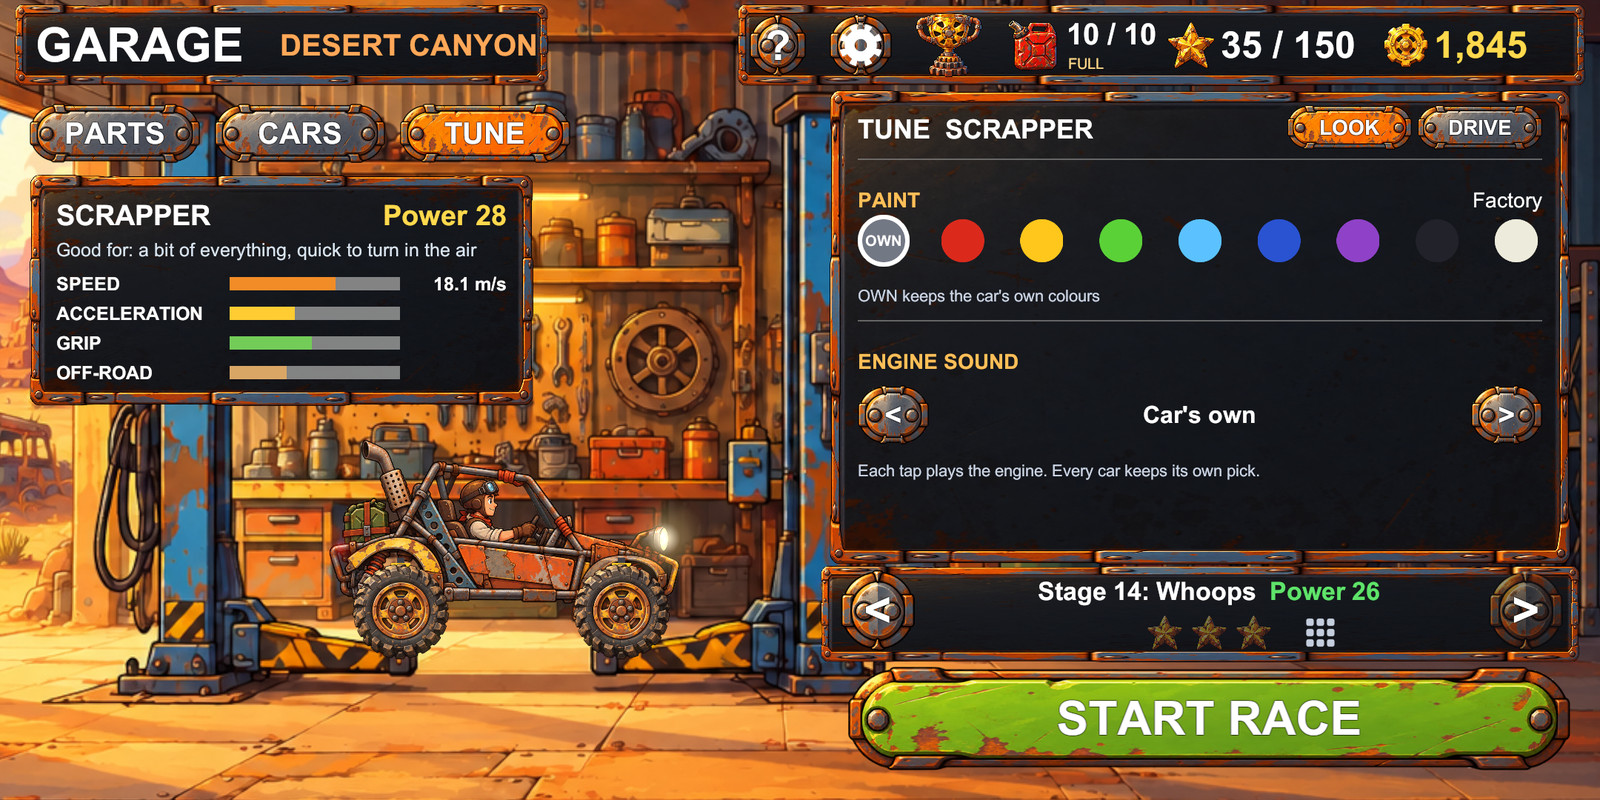
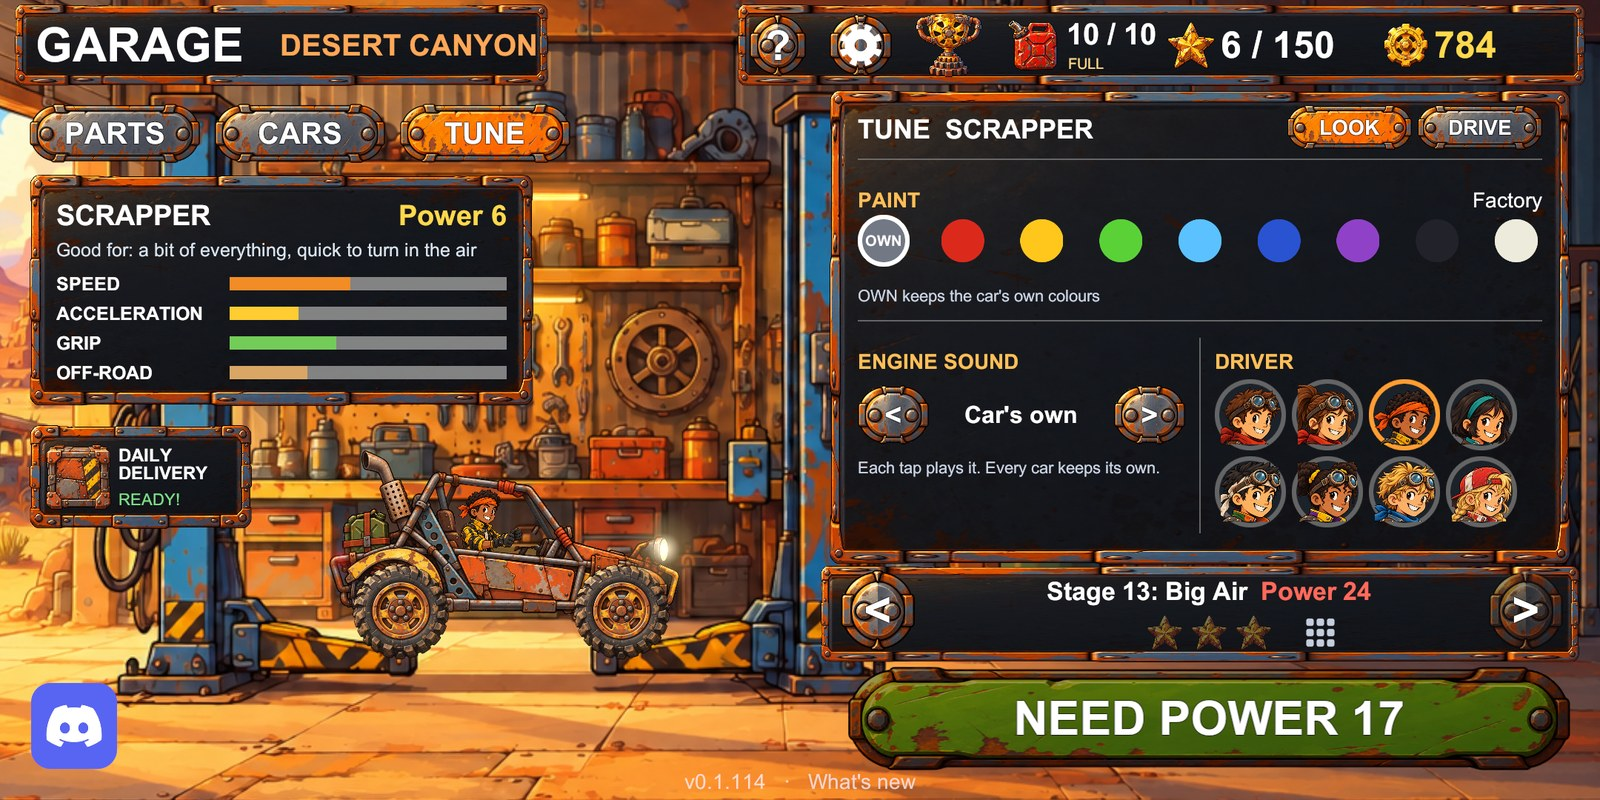
How to play: damage, Power to start, Daily Delivery, Discord, drivers, names
New Damage section (health bar, crashes, WRECKED and REPAIR 75%) and Power to start (World 2 70%, World 3 80%, Worlds 4-5 85%, at most +2 a stage). Daily Delivery and the Discord button in the garage, drivers in TUNE LOOK, unique racer names, World Cleared bonus, free RETRY after a near miss, stunt time from World 3, squash and ball time, part texts (Gearbox front drive, Suspension landings, Frame toughness). New garage and TUNE LOOK pictures (v0.1.114).

diff --git a/guide.html b/guide.html
@@ -4,7 +4,7 @@
 <meta charset="utf-8">
 <meta name="viewport" content="width=device-width, initial-scale=1">
 <title>How to play Garage Rush · Tipps Studios</title>
-<meta name="description" content="How to play Garage Rush: the pedals, time and checkpoints, flips and wheelies, coins and stars, upgrades, cars, tuning, stages, leaderboards, fuel and settings.">
+<meta name="description" content="How to play Garage Rush: the pedals, time and checkpoints, flips and wheelies, crash damage, coins and stars, upgrades, cars, drivers, tuning, stages and the Power they need, leaderboards, fuel, the Daily Delivery and settings.">
 <link rel="icon" href="img/icon_192.png">
 <link rel="stylesheet" href="style.css">
 </head>
@@ -23,6 +23,7 @@
   <p class="lede" style="margin-top: 8px;">Everything in Garage Rush, from your first race to a fully tuned car.</p>
   <ul class="toc">
     <li><a href="#racing">Racing</a></li>
+    <li><a href="#damage">Damage</a></li>
     <li><a href="#hazards">Hazards</a></li>
     <li><a href="#garage">The garage</a></li>
     <li><a href="#upgrades">Upgrades</a></li>
@@ -43,12 +44,15 @@
     <ul>
       <li><span class="key">RIGHT</span> pedal: gas. In the air it tips the nose down.</li>
       <li><span class="key">LEFT</span> pedal: brake, then drive backwards. In the air it tips the nose up.</li>
-      <li>Use them in the air to land on your wheels. Landing on the roof is safe: the car is put back on its wheels after 1.5 seconds.</li>
+      <li>Use them in the air to land on your wheels. Keep the gas held over a ramp and the nose only tips gently for a moment; let go and press again to flip.</li>
+      <li>Landing on the nose or the roof is a crash and dents the car (see <a href="#damage">Damage</a>). On its roof, the car is put back on its wheels after 1.5 seconds.</li>
     </ul>
     <h3>The clock, checkpoints and bonus time</h3>
     <ul>
       <li>The big number at the top is your time left. Each checkpoint you reach adds more.</li>
-      <li>Stunts add time too: a landed <b>flip</b> gives +2 s, a <b>backflip</b> +3 s, and a <b>wheelie</b> held for 1.5 s (on the rear or the front wheels) +2 s.</li>
+      <li>Stunts add time too. In Worlds 1 and 2 a <b>flip</b> gives +2 s, a <b>backflip</b> +3 s, and a <b>wheelie</b> held for 1.5 s (on the rear or the front wheels) +2 s. From World 3 each one gives +1 s, so a better car matters more there.</li>
+      <li>A flip counts only when you land it on your wheels.</li>
+      <li>Some hazards take time away: a crusher's squash costs 4 s and a wrecking ball's hit 3 s (2 s each in Worlds 1 and 2).</li>
       <li>The bar under the clock shows how far you've come: a tick for each checkpoint (green once you pass it) and the finish on the right.</li>
     </ul>
     <h3>The buttons at the top</h3>
@@ -61,17 +65,33 @@
     <p>If the clock reaches zero you can watch an ad to <b>CONTINUE +15 s</b>, once per race. A finish after a Continue still counts for your stars and the leaderboard.</p>
     <h3>After the race</h3>
     <p>The results show your stars and what the race paid, line by line. Watch an ad for <b>×2 COINS</b>, then race again with <b>RETRY</b>, go on with <b>NEXT</b>, or head back to the <b>GARAGE</b>.</p>
+    <p>Ran out of time just short of a checkpoint or the finish, or got further than ever on that stage? Then <b>RETRY</b> is free: it uses no fuel.</p>
+  </section>
+
+  <section id="damage">
+    <h2>Damage <span class="num">2</span></h2>
+    <p>Look after your car: crashes dent it, and a dented car is slower. The <b>health bar</b> at the top left shows how much is left, with the speed it costs underneath.</p>
+    <ul>
+      <li>A <b>crash</b> is the body hitting the ground when the car isn't on its wheels: a nose or roof landing, a tumble, or the far edge of a gap. It costs 6 to 12% health, more for a harder hit. A light tap of the nose or the back doesn't count.</li>
+      <li>Landing on your wheels never damages the car, however hard.</li>
+      <li>Smaller knocks cost a little too: the belly slamming onto a bump, rock or ledge, driving head-on into something that stops you, a wrecking ball's hit, or a fall into a pit.</li>
+      <li>In Worlds 1 and 2 all damage counts half. A tougher <b>Frame</b> takes less (Level 10 halves it).</li>
+      <li>You can see it: the car looks battered under 70% health and wrecked under 35%, with smoke, then sparks.</li>
+      <li>Nothing repairs the car during a race, but every race starts with it as good as new.</li>
+    </ul>
+    <h3>Wrecked</h3>
+    <p>When the health runs out, the race stops. Watch an ad to <b>REPAIR 75%</b> and drive on (once per race), or say No thanks and go to the results.</p>
   </section>
 
   <section id="hazards">
-    <h2>Hazards <span class="num">2</span></h2>
+    <h2>Hazards <span class="num">3</span></h2>
     <p>New hazards come one at a time, each with a tip on the stage's opening card. The main ones:</p>
     <table class="table">
       <thead><tr><th>Hazard</th><th>How to beat it</th></tr></thead>
       <tbody>
-        <tr><td>Crushers</td><td>Go while it's up. The sign's lamp turns green when you'll make it.</td></tr>
-        <tr><td>Wrecking balls</td><td>Pass while the ball is high. Green lamp: go.</td></tr>
-        <tr><td>Bottomless pits</td><td>Hit the ramp fast. Fall in and you go back a bit.</td></tr>
+        <tr><td>Crushers</td><td>Go while it's up. The sign's lamp turns green when you'll make it. A squash costs time.</td></tr>
+        <tr><td>Wrecking balls</td><td>Pass while the ball is high. Green lamp: go. A hit costs time and dents the car.</td></tr>
+        <tr><td>Bottomless pits</td><td>Hit the ramp fast. Fall in and you go back a bit, with a dent.</td></tr>
         <tr><td>Crate walls</td><td>They need a run-up: back up along the yellow dashes.</td></tr>
         <tr><td>Wooden boxes, barriers</td><td>Smash through them fast. Too slow and they stop you.</td></tr>
         <tr><td>Ledges</td><td>Hit the steep ramp fast to jump up. Too slow? Back up.</td></tr>
@@ -87,38 +107,49 @@
   </section>
 
   <section id="garage">
-    <h2>The garage <span class="num">3</span></h2>
-    <figure class="shot"><img src="img/garage.jpg" width="1600" height="800" loading="lazy" alt="The garage: the car on its lift, the car panel on the left, six part cards on the right, the stage picker and START RACE"></figure>
+    <h2>The garage <span class="num">4</span></h2>
+    <figure class="shot"><img src="img/guide_garage.jpg" width="1600" height="800" loading="lazy" alt="The garage: the car on its lift, the car panel and the Daily Delivery on the left, the Discord button bottom left, six part cards on the right, the stage picker and the START RACE button, here saying NEED POWER 17"></figure>
     <p>Between races you're in the garage. Tap the <span class="key">?</span> at the top any time to see what every part of the screen does.</p>
     <ul>
       <li><b>Top left:</b> the world you're racing in. Tap it to open the STAGES window.</li>
       <li><b>Top bar:</b> the guide <span class="key">?</span>, settings (gear), leaderboard (trophy), fuel, your stars and your coins.</li>
       <li><b>PARTS, CARS, TUNE:</b> the three tabs, explained below.</li>
       <li><b>Car panel:</b> the car you drive, its <b>Power</b> (all its part levels added up) and what it's good at.</li>
+      <li><b>Daily Delivery</b>, under the car panel: a free crate of coins every day (see below).</li>
+      <li><b>Discord</b>, bottom left: opens the Garage Rush Discord server, in the Discord app if you have it.</li>
       <li><b>Bottom right:</b> the stage picker and <b>START RACE</b>.</li>
       <li><b>Bottom:</b> the version and <b>What's new</b>, the notes for each update (with an UPDATE button when a newer version is on Google Play).</li>
     </ul>
+    <h3 id="delivery">Daily Delivery</h3>
+    <ul>
+      <li>Once a day a crate of coins waits for you. Its crate bobs on the button while it's ready; once taken, the button shows how long until the next one.</li>
+      <li>It holds one race's pay in the furthest world you've opened, so it grows as you go.</li>
+      <li>Tap <b>TAKE</b> for the coins, or <b>WATCH AD</b> for 3 times as much.</li>
+      <li>A new crate comes every day at midnight UTC (02:00 in Romania, one hour later in summer).</li>
+    </ul>
+    <h3>Discord</h3>
+    <p>Meet other racers, share your times and tell us what you think: <a href="https://discord.gg/t95NBhnwTp">join the Garage Rush Discord</a>.</p>
   </section>
 
   <section id="upgrades">
-    <h2>Upgrades: the PARTS tab <span class="num">4</span></h2>
+    <h2>Upgrades: the PARTS tab <span class="num">5</span></h2>
     <p>Six parts, each with its own levels. Upgrades belong to you, not to one car: every car you drive gets them. Tap <b>UPGRADE</b> to buy the next level; when you can't afford it yet, the button says how many coins you still need, and at the top level it says MAX. Tap a part card, or its <span class="key">?</span>, to see everything it does.</p>
     <table class="table">
       <thead><tr><th>Part</th><th>What it does</th></tr></thead>
       <tbody>
         <tr><td>Engine</td><td>Top speed, and more pulling power for ramps, ledges and mud. A faster car flies further off ramps and reaches the coins higher up. It also sounds deeper and louder.</td></tr>
-        <tr><td>Gearbox</td><td>Acceleration: how quickly the car gets up to its top speed, after every start, reset, crusher, wall or slow part. It doesn't raise the top speed.</td></tr>
-        <tr><td>Suspension</td><td>Softer, better damped springs, so the car settles after jumps and bumps. It also lifts the body (up to 25 cm at Level 10), so it gets stuck less on bumps, rocks and ledges.</td></tr>
+        <tr><td>Gearbox</td><td>Acceleration: how quickly the car gets up to its top speed, after every start, reset, crusher, wall or slow part. From Level 2 it drives the front wheel too, so good Tires let the car use all that pull. It doesn't raise the top speed.</td></tr>
+        <tr><td>Suspension</td><td>Soft landings: a hard landing costs speed, up to 20% at Level 1 and only 5% at Level 10. Better damped springs settle the car after jumps and bumps. It also lifts the body (up to 25 cm at Level 10), so it gets stuck less on bumps, rocks and ledges.</td></tr>
         <tr><td>Tires</td><td>Grip: quicker starts and shorter stops, less sliding on ice, oil and snow, less slow-down in mud, sand, ash and deep snow, and no slipping back on steep ramps.</td></tr>
-        <tr><td>Frame</td><td>Air spin: the car turns faster in the air, so more flips fit into one jump. A sturdier frame also keeps it steady on the road.</td></tr>
+        <tr><td>Frame</td><td>Toughness: crashes, hits and falls dent the car less (Level 10 halves the damage). Air spin: the car turns faster in the air, so more flips fit into one jump. A sturdier frame also keeps it steady on the road.</td></tr>
         <tr><td>Brakes</td><td>Stronger braking before crushers, low bridges and ice (from Level 2 the front wheels brake too), and faster reversing.</td></tr>
       </tbody>
     </table>
-    <div class="callout"><p>Every stage shows the <b>Power</b> it's made for: green when your car has enough, amber when you're close, red when an upgrade or two would help.</p></div>
+    <div class="callout"><p>Every stage shows the <b>Power</b> it's made for: green when your car has enough, amber when you're close, red when an upgrade or two would help. From World 2 a stage also needs a minimum Power before you can start it (see <a href="#power">Power to start</a>).</p></div>
   </section>
 
   <section id="cars">
-    <h2>Cars: the CARS tab <span class="num">5</span></h2>
+    <h2>Cars: the CARS tab <span class="num">6</span></h2>
     <figure class="shot"><img src="img/guide_cars.jpg" width="1600" height="800" loading="lazy" alt="The CARS tab: the car cards, some unlocked with a SELECT button, some locked with the stars they need"></figure>
     <p>Every car drives differently. New ones unlock with the stars you collect; tap <b>SELECT</b> to drive one.</p>
     <table class="table">
@@ -134,13 +165,14 @@
   </section>
 
   <section id="tune">
-    <h2>Tune: the TUNE tab <span class="num">6</span></h2>
-    <p>Make the car you drive your own. Every car keeps its own settings. TUNE has two halves:</p>
+    <h2>Tune: the TUNE tab <span class="num">7</span></h2>
+    <p>Make the car you drive your own. Every car keeps its own paint, sound and settings. TUNE has two halves:</p>
     <h3>LOOK</h3>
-    <figure class="shot"><img src="img/guide_tune_look.jpg" width="1600" height="800" loading="lazy" alt="TUNE, LOOK: paint colours and the engine sound picker"></figure>
+    <figure class="shot"><img src="img/guide_tune_look.jpg" width="1600" height="800" loading="lazy" alt="TUNE, LOOK: paint colours, the engine sound picker and the eight drivers"></figure>
     <ul>
       <li><b>Paint:</b> the car's own colours, or fire red, hazard yellow, toxic green, ice blue, deep blue, grape, midnight or bone white.</li>
       <li><b>Engine sound:</b> the car's own engine, Rotary, Inline six, Rotary deep, Rotary screamer or Retro. Each tap plays it.</li>
+      <li><b>Driver:</b> who sits behind the wheel. Eight racers, four boys and four girls, all free. You pick one when you first choose your name, and can change anytime here. Your driver drives every car.</li>
     </ul>
     <h3>DRIVE</h3>
     <figure class="shot"><img src="img/guide_tune_drive.jpg" width="1600" height="800" loading="lazy" alt="TUNE, DRIVE: ride height, gearing and grip sliders"></figure>
@@ -152,29 +184,46 @@
   </section>
 
   <section id="stages">
-    <h2>Stages and the STAGES window <span class="num">7</span></h2>
+    <h2>Stages and the STAGES window <span class="num">8</span></h2>
     <figure class="shot"><img src="img/guide_stages.jpg" width="1600" height="800" loading="lazy" alt="The STAGES window: ten world buttons along the top and the world's ten stages as tiles"></figure>
     <ul>
       <li>Finish a stage to open the next one. Each world's stages get harder as you go.</li>
       <li>Step through them with the <span class="key">&lt;</span> <span class="key">&gt;</span> arrows on the stage picker.</li>
       <li>Or tap the <b>stage name</b>, the <b>grid icon</b> beside its stars, or the <b>world name</b> at the top left to open <b>STAGES</b>: every world along the top, and the world's stages as tiles over their own skies.</li>
-      <li>Each tile shows your stars, the Power the stage needs, your place on its leaderboard and your best time. A locked tile says which stage opens it. Tap a tile to pick that stage.</li>
+      <li>Each tile shows your stars, the Power the stage is made for, your place on its leaderboard and your best time. A locked tile says which stage opens it. Tap a tile to pick that stage.</li>
       <li>Worlds still to come show as COMING SOON.</li>
+    </ul>
+    <h3 id="power">Power to start</h3>
+    <p>World 1 is for learning: any car can race it. From World 2 a stage needs a minimum <b>Power</b> before it can start, so you never get stuck at a jump your car can't make.</p>
+    <table class="table">
+      <thead><tr><th>World</th><th>Power needed to start</th></tr></thead>
+      <tbody>
+        <tr><td>World 1</td><td>None</td></tr>
+        <tr><td>World 2</td><td>70% of the Power the stage is made for</td></tr>
+        <tr><td>World 3</td><td>80%</td></tr>
+        <tr><td>Worlds 4 and 5</td><td>85%</td></tr>
+      </tbody>
+    </table>
+    <ul>
+      <li>From one stage to the next, the minimum never rises by more than 2. For example, Stage 31 needs Power 45, Stage 40 needs 59 and Stage 50 needs 76.</li>
+      <li>Too little Power? <b>START RACE</b> says <b>NEED POWER</b> and the number, and takes you to PARTS. The stage's tile in STAGES says <b>Needs Power</b> in red.</li>
+      <li>After a race, <b>NEXT</b> tells you when the next stage needs more Power, with an <b>UPGRADE</b> button that takes you to the garage.</li>
     </ul>
   </section>
 
   <section id="leaderboards">
-    <h2>Leaderboards <span class="num">8</span></h2>
+    <h2>Leaderboards <span class="num">9</span></h2>
     <ul>
       <li>Every stage has its own leaderboard of the fastest finish times. Open it with the <b>trophy</b> in the garage's top bar, or from the results after a race.</li>
       <li>It shows the ten fastest players, with their car, and your own place and best time.</li>
       <li>Every finish counts, with or without a Continue. No internet? Your best time is kept and sent the next time you're online.</li>
-      <li><b>CHANGE NAME</b> sets the name others see. Tap another player's name to hide it on your phone or report it.</li>
+      <li>The first time you play you choose your racer name (the game suggests a free one, or type your own). Every name is unique: no two players share one.</li>
+      <li><b>CHANGE NAME</b> sets a new name. Tap another player's name to hide it on your phone or report it.</li>
     </ul>
   </section>
 
   <section id="fuel">
-    <h2>Fuel <span class="num">9</span></h2>
+    <h2>Fuel <span class="num">10</span></h2>
     <figure class="shot"><img src="img/guide_fuel.jpg" width="1600" height="800" loading="lazy" alt="The FUEL window: 10 of 10 cans, tank full, and a button to watch an ad for 3 more"></figure>
     <ul>
       <li>Your tank holds <b>10 cans</b>, and every race uses one.</li>
@@ -185,17 +234,19 @@
   </section>
 
   <section id="coins">
-    <h2>Coins and stars <span class="num">10</span></h2>
+    <h2>Coins and stars <span class="num">11</span></h2>
     <ul>
       <li>Every stage has <b>40 coins</b>. Finish with <b>16 / 26 / 34</b> coins for <b>1 / 2 / 3 stars</b>. Some coins hide high in the air, over jumps and vents.</li>
       <li>Stars count only on a finish, and they unlock new cars.</li>
       <li>A race pays for every coin you grab (coins are worth more in later worlds), for the distance you drove, a bonus for your first finish of a stage, and a bonus for each new star.</li>
+      <li><b>WORLD CLEARED!</b> Your first finish of a world's last stage pays a big bonus on top.</li>
       <li>Spend coins on upgrades in the PARTS tab. Watch an ad after a race for ×2 coins.</li>
+      <li>More coins every day: the <a href="#delivery">Daily Delivery</a> in the garage.</li>
     </ul>
   </section>
 
   <section id="settings">
-    <h2>Settings <span class="num">11</span></h2>
+    <h2>Settings <span class="num">12</span></h2>
     <figure class="shot"><img src="img/guide_settings.jpg" width="1600" height="800" loading="lazy" alt="The SETTINGS window: music, sound effects, time of day, flashing effects, effects, personalised ads and credits"></figure>
     <p>Tap the gear in the garage's top bar.</p>
     <table class="table">
@@ -205,7 +256,7 @@
         <tr><td>Time of day</td><td>Race in daylight, or slide toward dusk and night.</td></tr>
         <tr><td>Flashing effects</td><td>OFF for players sensitive to flashing light: lightning becomes a soft glow and nothing blinks.</td></tr>
         <tr><td>Effects</td><td>HIGH for every effect, LOW for a smoother game on slower phones.</td></tr>
-        <tr><td>Personalised ads</td><td>Whether the ads may be based on your interests.</td></tr>
+        <tr><td>Personalised ads</td><td>Whether the ads may be based on your interests. In Europe this follows Google's consent rules.</td></tr>
         <tr><td>Credits</td><td>Who made the game, its music and its sounds.</td></tr>
       </tbody>
     </table>
@@ -217,7 +268,7 @@
   </div>
 
   <footer>
-    <p>Garage Rush is made by Tipps Studios. · <a href="index.html">Home</a></p>
+    <p>Garage Rush is made by Tipps Studios. · <a href="index.html">Home</a> · <a href="https://discord.gg/t95NBhnwTp">Discord</a></p>
     <p><a href="https://sites.google.com/view/garagerush-privacy">Privacy policy</a> · Contact: <a href="mailto:tippsstudios@gmail.com">tippsstudios@gmail.com</a></p>
     <p>© 2026 Tipps Studios</p>
   </footer>
